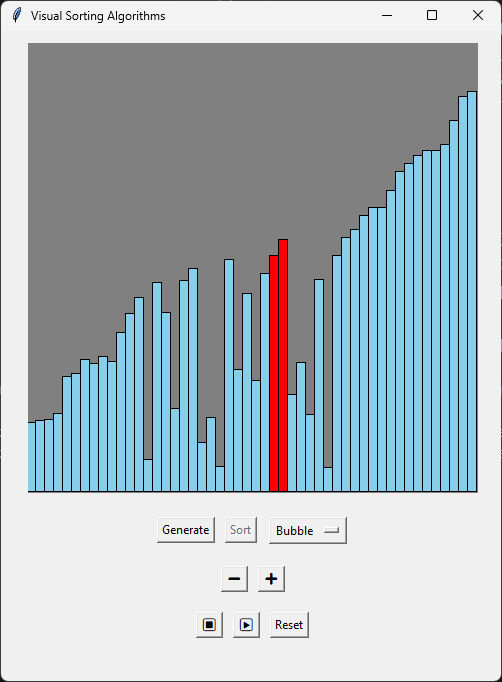
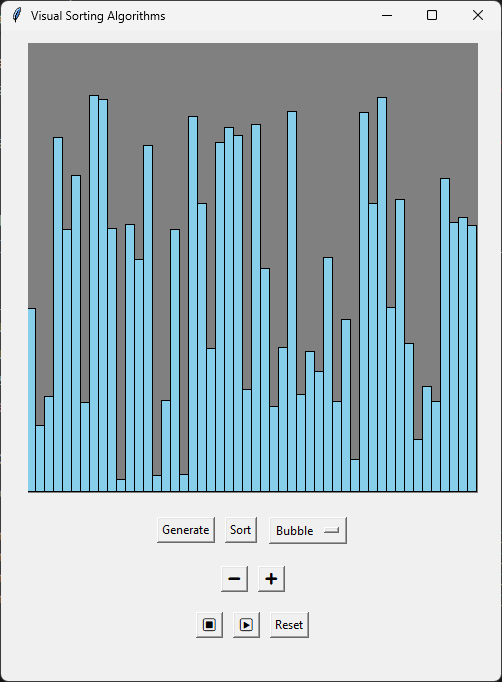
update: updated screenshots

Changed region(s): [[0.0299, 0.1232, 0.7171, 0.739], [0.7171, 0.1232, 0.9562, 0.6466], [0.4482, 0.7698, 0.508, 0.8006]]

diff --git a/README.md b/README.md
@@ -22,8 +22,8 @@ A Python application that visualizes sorting algorithms using Tkinter GUI. This 
 5. Adjust the sorting speed using the ➖ (slower) and ➕ (faster) buttons
 
 ## Screenshots
-
-![Sorting visualization in action](assets/img.png)
+![Generated bars](assets/img.png)
+![Sorting visualization in action](assets/img2.png)
 
 
 ## Visual Feedback
